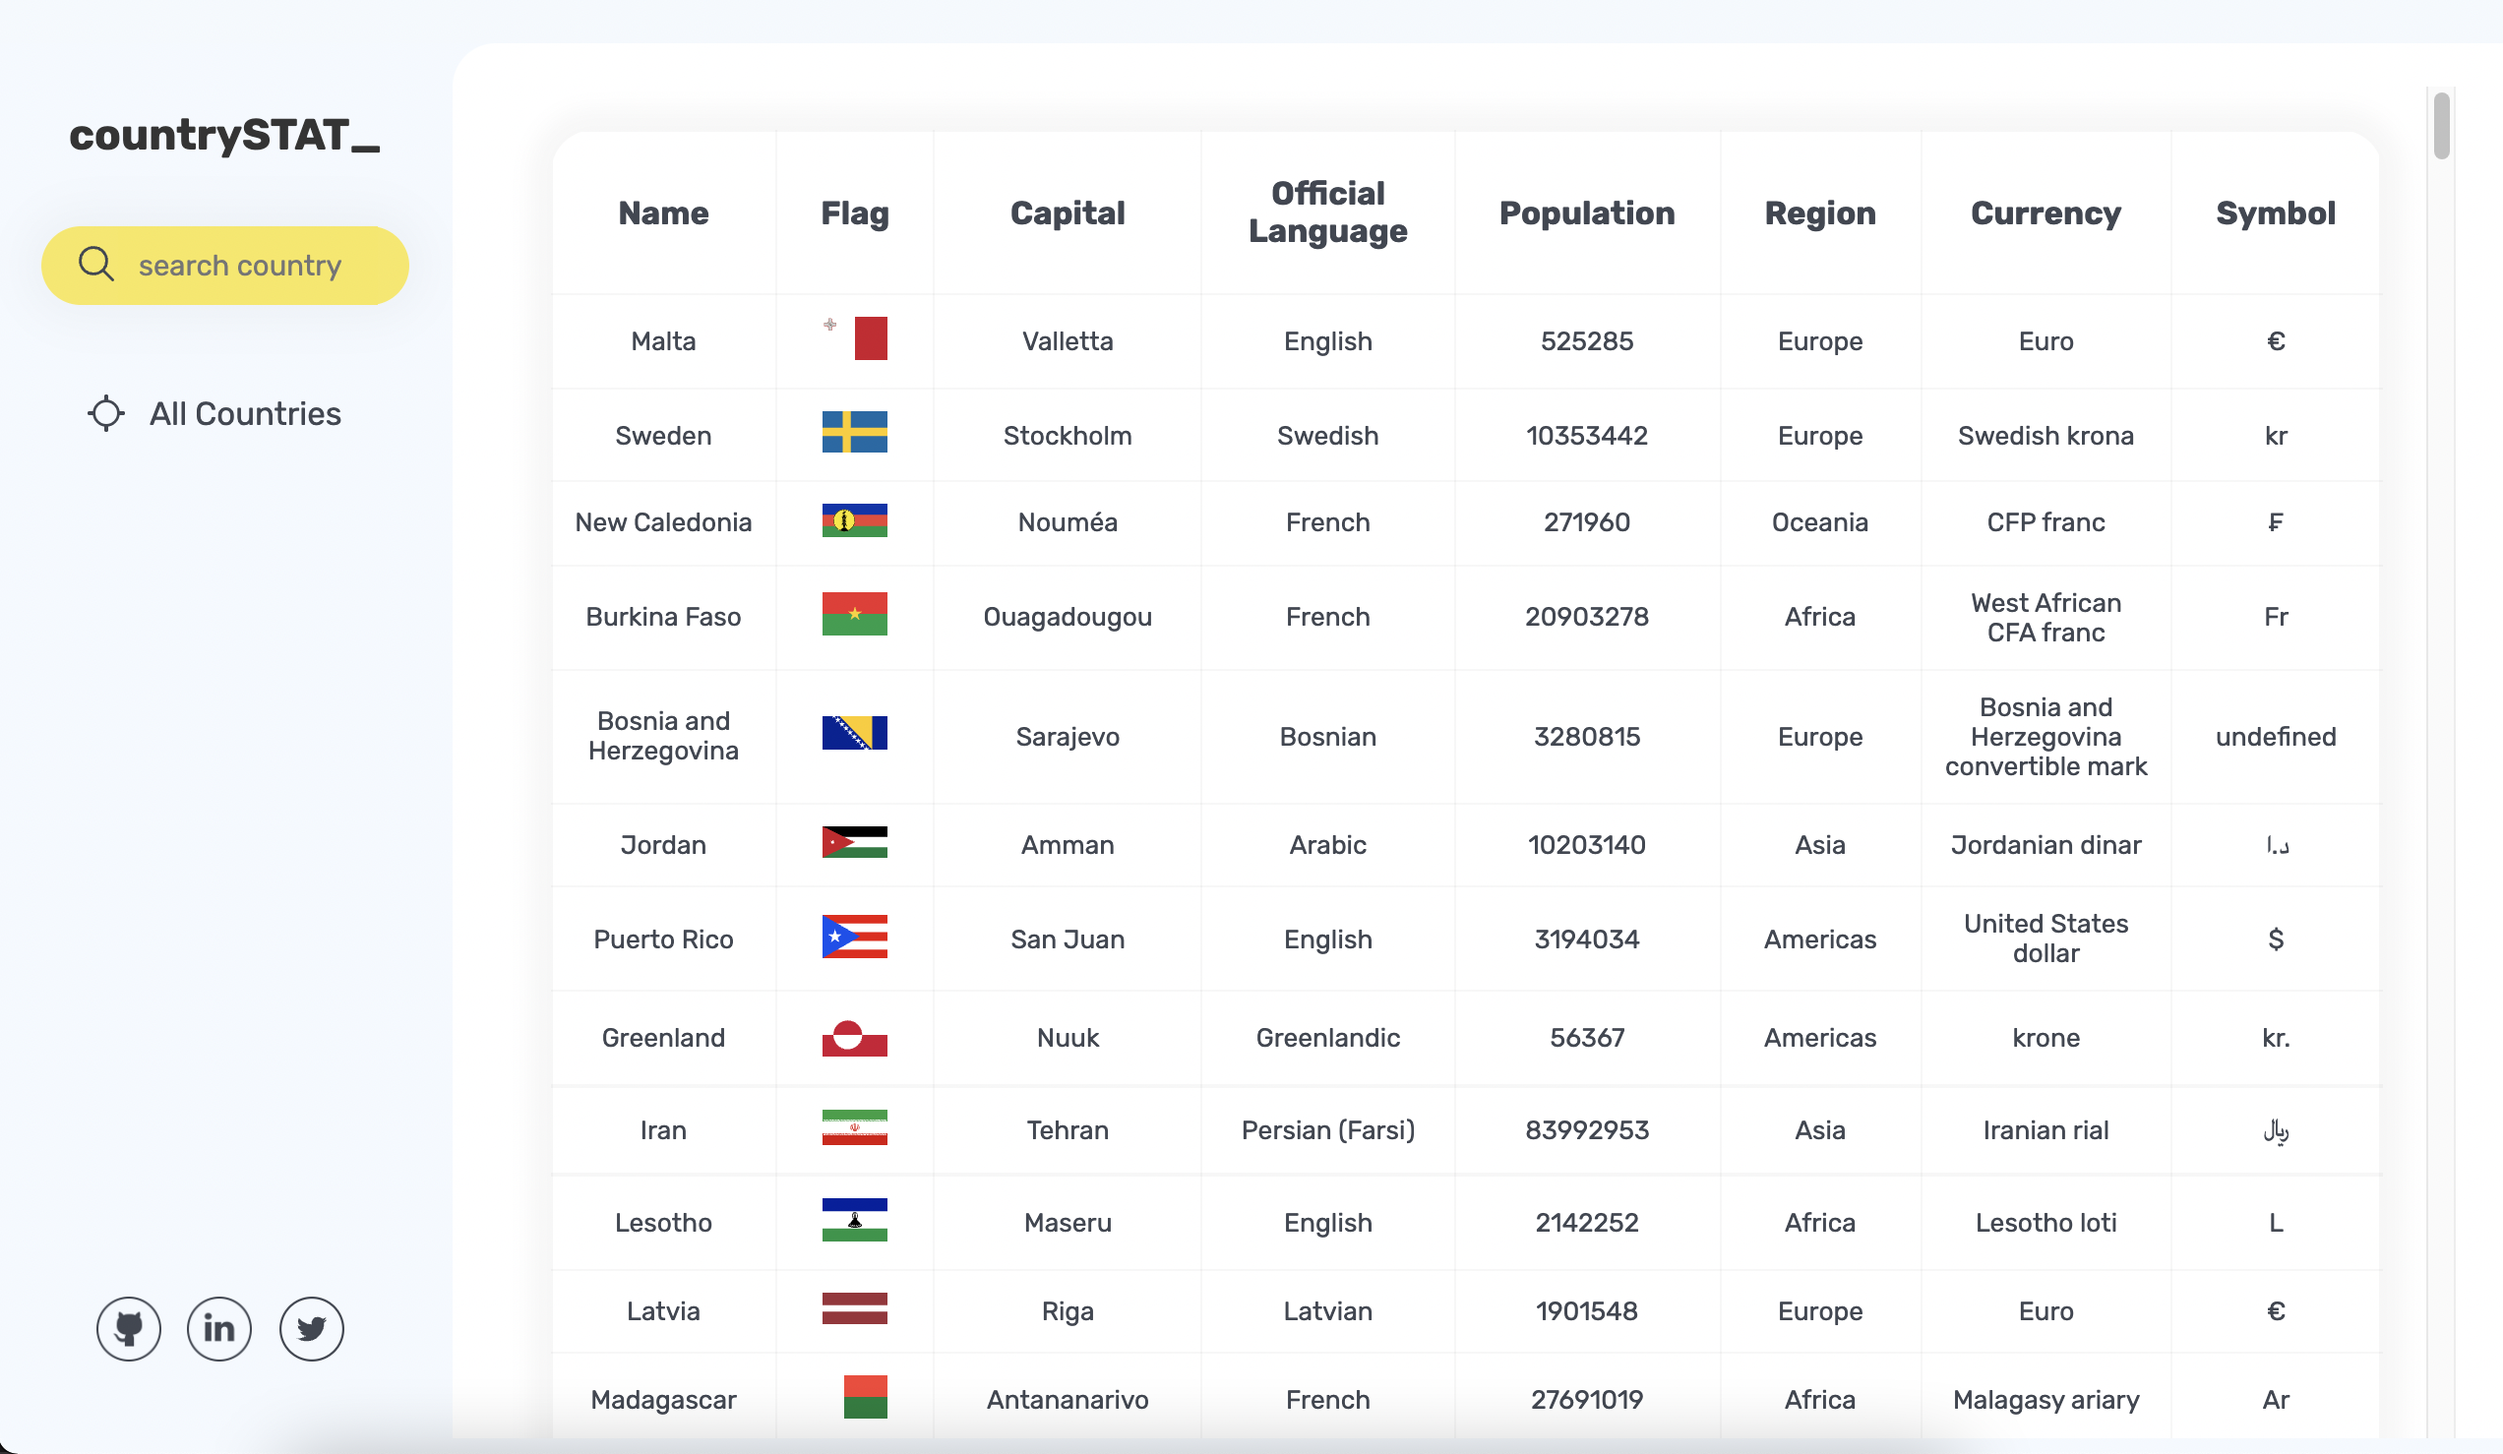
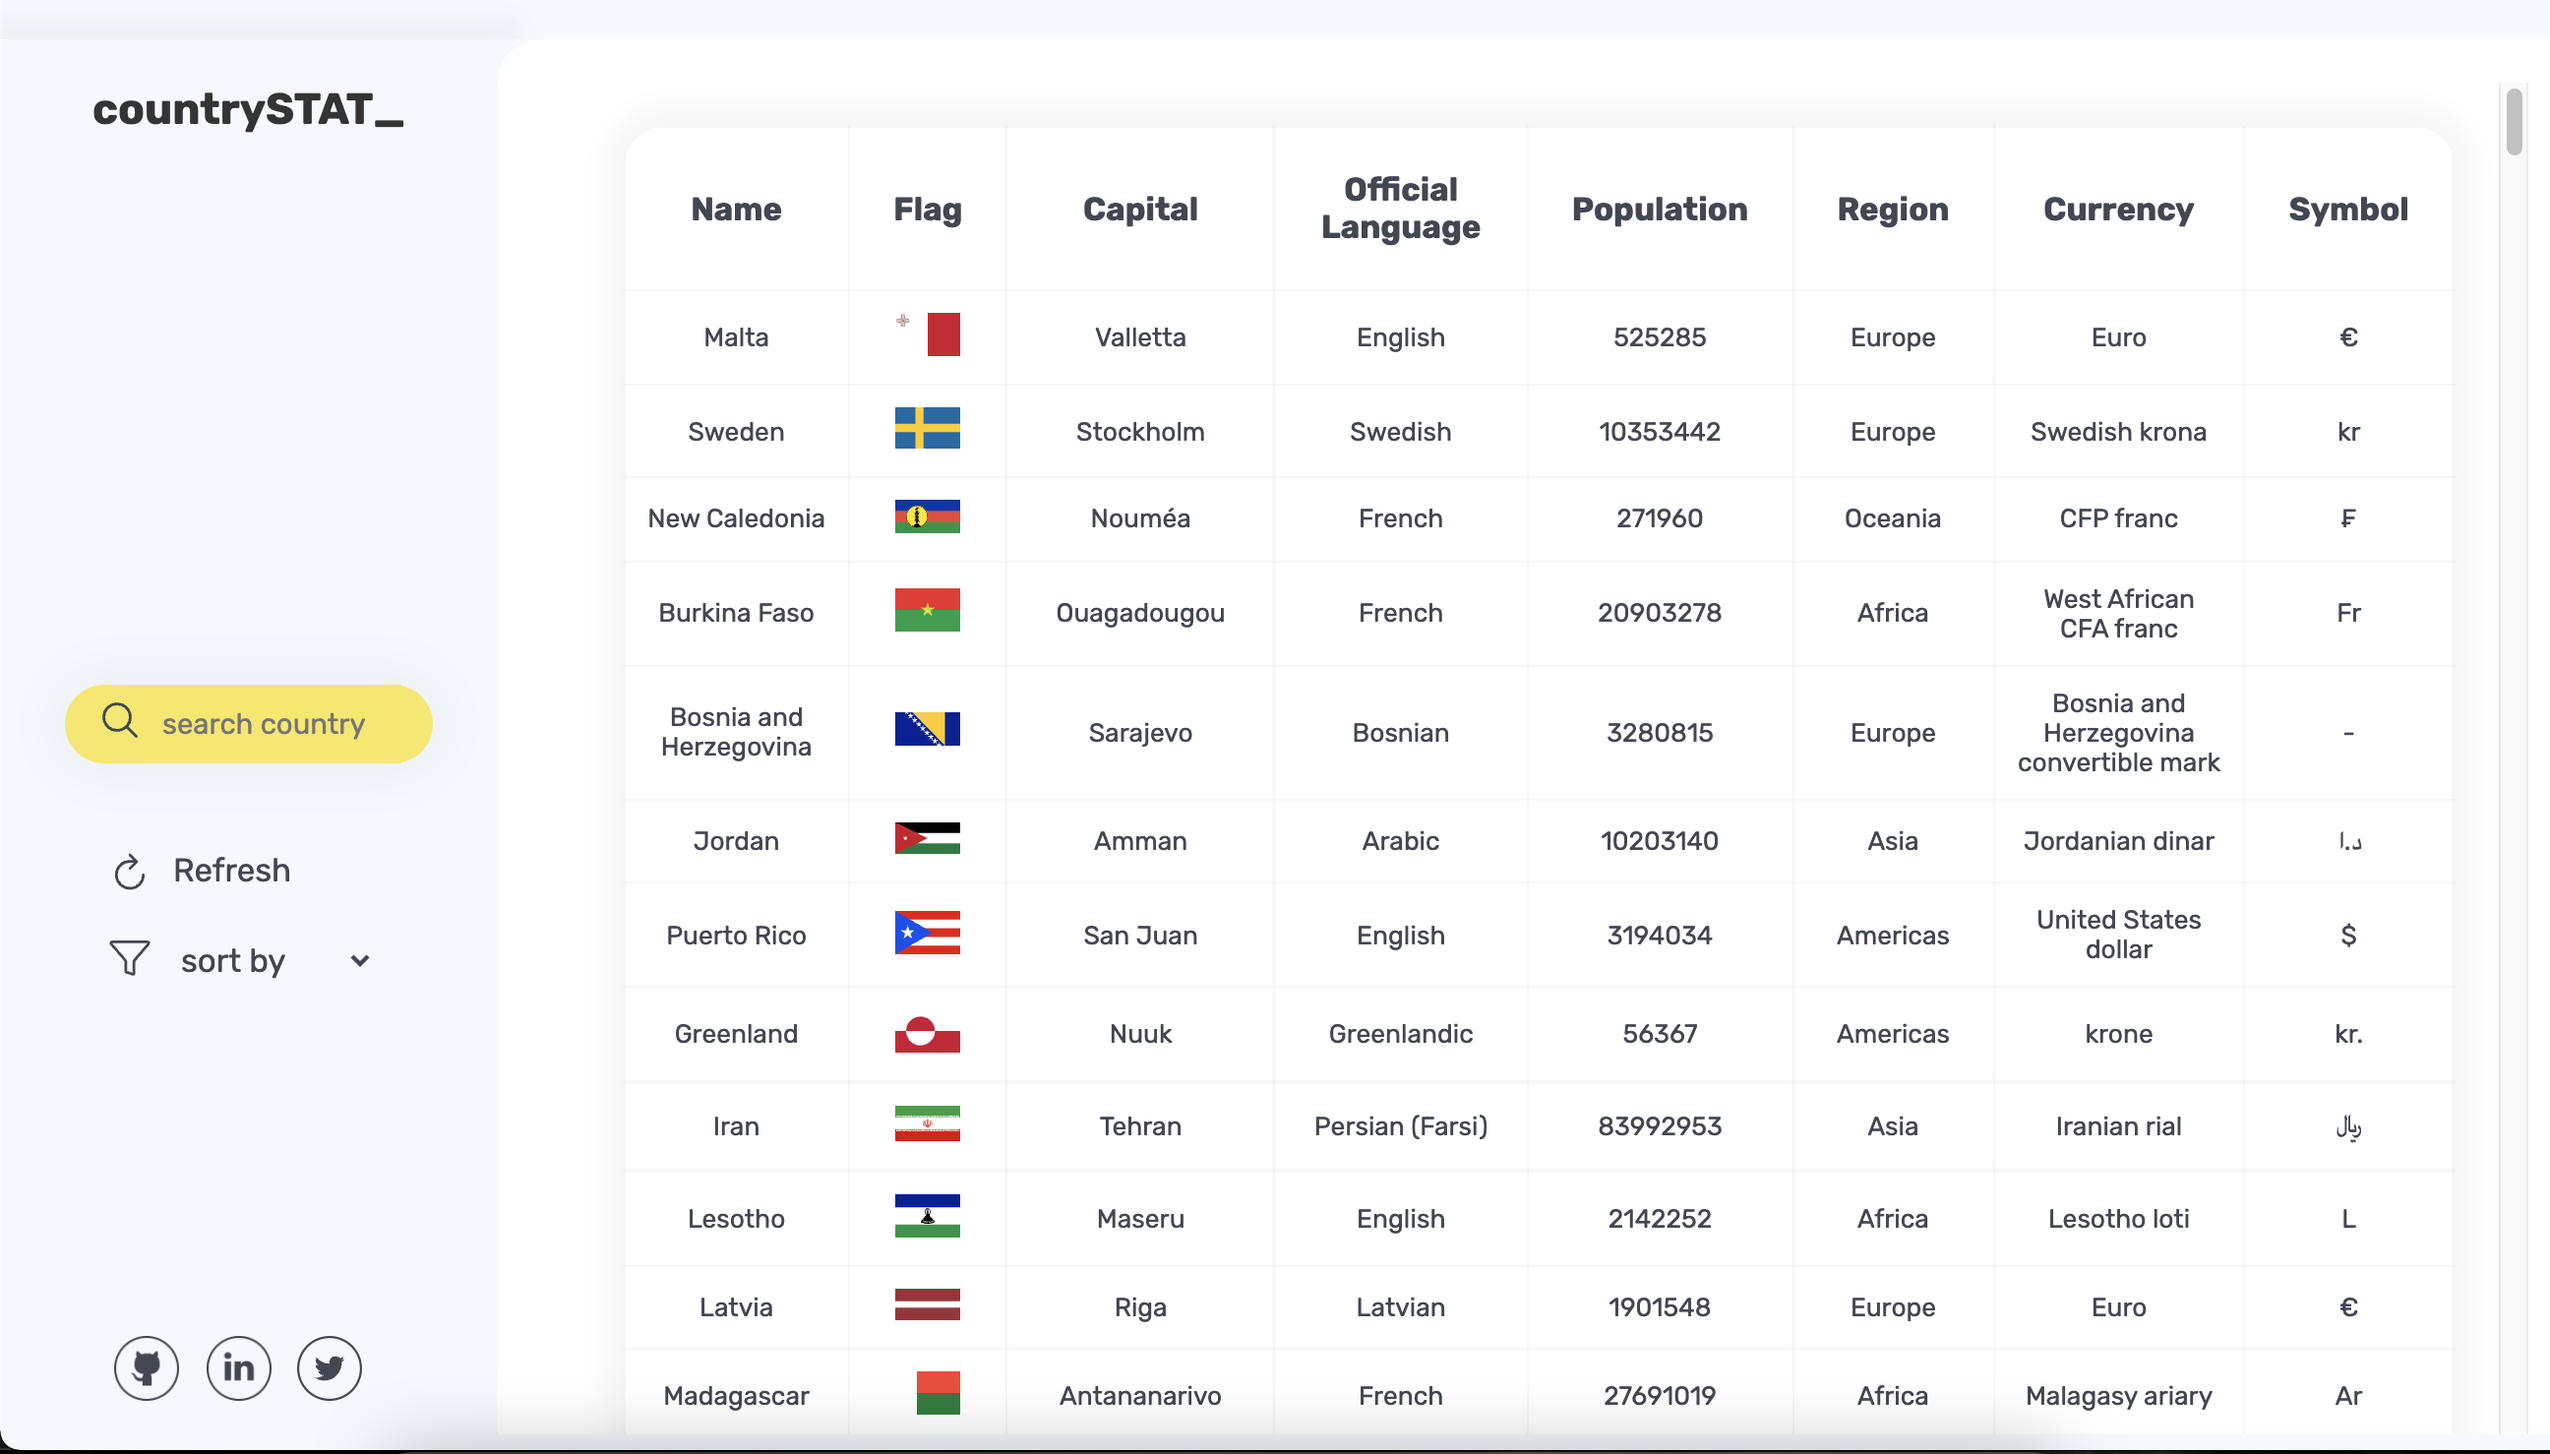
minute :bug: fixes and updated :books: readme

diff --git a/css/table.css b/css/table.css
@@ -64,7 +64,6 @@ ion-icon {
   align-items: center;
   padding: 2rem;
   box-shadow: 0 0 10px 10px rgba(0, 0, 0, 0.03);
-
 }
 
 .nav-grid h1 {
@@ -215,7 +214,8 @@ td {
   }
 }
 @media (max-width: 650px) {
-  .empty, .search-div {
+  .empty,
+  .search-div {
     display: none;
   }
 
@@ -230,16 +230,18 @@ td {
 
   .nav-grid {
     flex-direction: row;
-    height: 9vh;
+    height: 10vh;
+    overflow-x: auto;
   }
 
-  .options, .nav-options {
+  .options,
+  .nav-options {
     display: flex;
     align-items: center;
     flex-direction: row;
   }
 
-  .nav-options{
+  .nav-options {
     gap: 2rem;
   }
 
@@ -247,10 +249,9 @@ td {
     background-color: #fff;
     box-shadow: 0 0 10px 2px rgba(0, 0, 0, 0.05);
   }
-  
+
   .sort {
     background-color: #fff;
-    
   }
 
   .socials {
@@ -271,7 +272,9 @@ td {
     background-color: #fff;
     border-radius: 50%;
     box-shadow: 0 0 10px 2px rgba(0, 0, 0, 0.05);
-
   }
-  
+
+  .container {
+    border-top-right-radius: 20px;
+  }
 }

diff --git a/table.html b/table.html
@@ -11,6 +11,8 @@
 &display=swap"
       rel="stylesheet"
     />
+    <link rel="shortcut icon" href="./assets/favicon.ico" type="image/x-icon">
+
 
     <link rel="stylesheet" href="./css/table.css" />
     <title>Countries</title>
@@ -41,6 +43,12 @@
           </div>
   
           <ul class="nav-options">
+            <a href="./dashboard.html"
+              ><li class="all-countries">
+                <ion-icon name="chevron-back-outline"></ion-icon
+                ><span>Back</span>
+              </li></a
+            >
             <a href="#"
               ><li class="all-countries">
                 <ion-icon name="refresh-outline"></ion-icon

diff --git a/dashboard.html b/dashboard.html
@@ -11,6 +11,8 @@
 &display=swap"
       rel="stylesheet"
     />
+    <link rel="shortcut icon" href="./assets/favicon.ico" type="image/x-icon">
+
 
     <link rel="stylesheet" href="./css/dashboard.css" />
     <title>Countries</title>

diff --git a/index.html b/index.html
@@ -11,6 +11,7 @@
 &display=swap"
       rel="stylesheet"
     />
+    <link rel="shortcut icon" href="./assets/favicon.ico" type="image/x-icon">
 
     <link rel="stylesheet" href="./css/main.css" />
     <title>Countries</title>

diff --git a/README.md b/README.md
@@ -14,12 +14,15 @@ All this with a clean and beautiful UI.
 
 ### HomePage
 
-<code><img src="https://github.com/rahulk31/countries/blob/main/assets/HomepageNew.png"></code>
+<code><img width="300" src="https://github.com/rahulk31/countries/blob/main/assets/HomepageNew.png"></code>
+<code><img width="100" src="https://github.com/rahulk31/countries/blob/main/assets/HomepageMobile.png"></code>
 
 ### Dashboard
 
-<code><img src="https://github.com/rahulk31/countries/blob/main/assets/Dashboard.png"></code>
+<code><img width="300" src="https://github.com/rahulk31/countries/blob/main/assets/Dashboard.png"></code>
+<code><img width="100"src="https://github.com/rahulk31/countries/blob/main/assets/DashboardMobile.png"></code>
 
 ### Table View & Download
 
-<code><img src="https://github.com/rahulk31/countries/blob/main/assets/TableView.png"></code>
+<code><img width="300" src="https://github.com/rahulk31/countries/blob/main/assets/TableView.png"></code>
+<code><img width="100" src="https://github.com/rahulk31/countries/blob/main/assets/TableMobile.png"></code>
